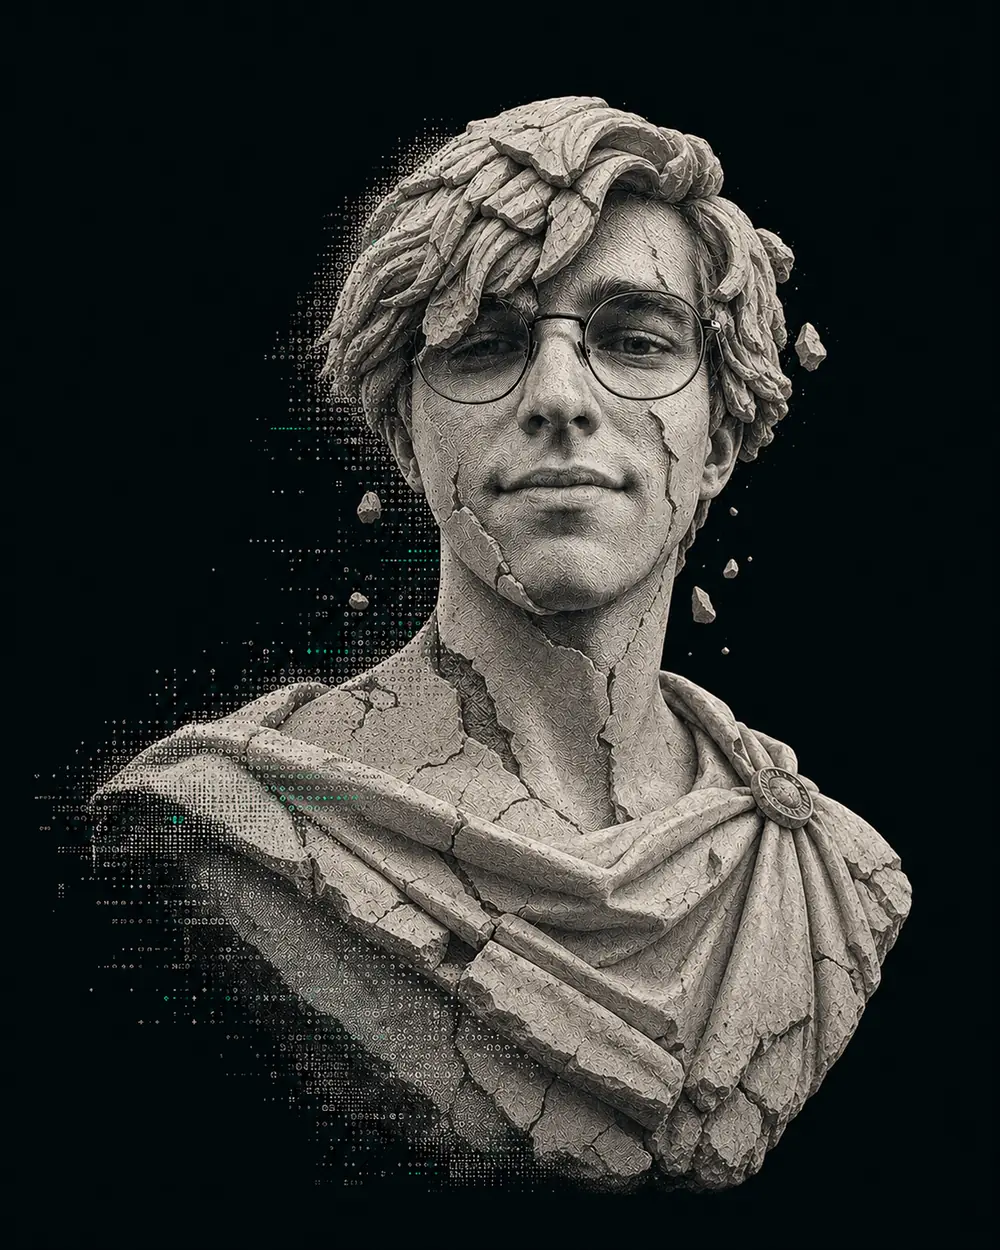
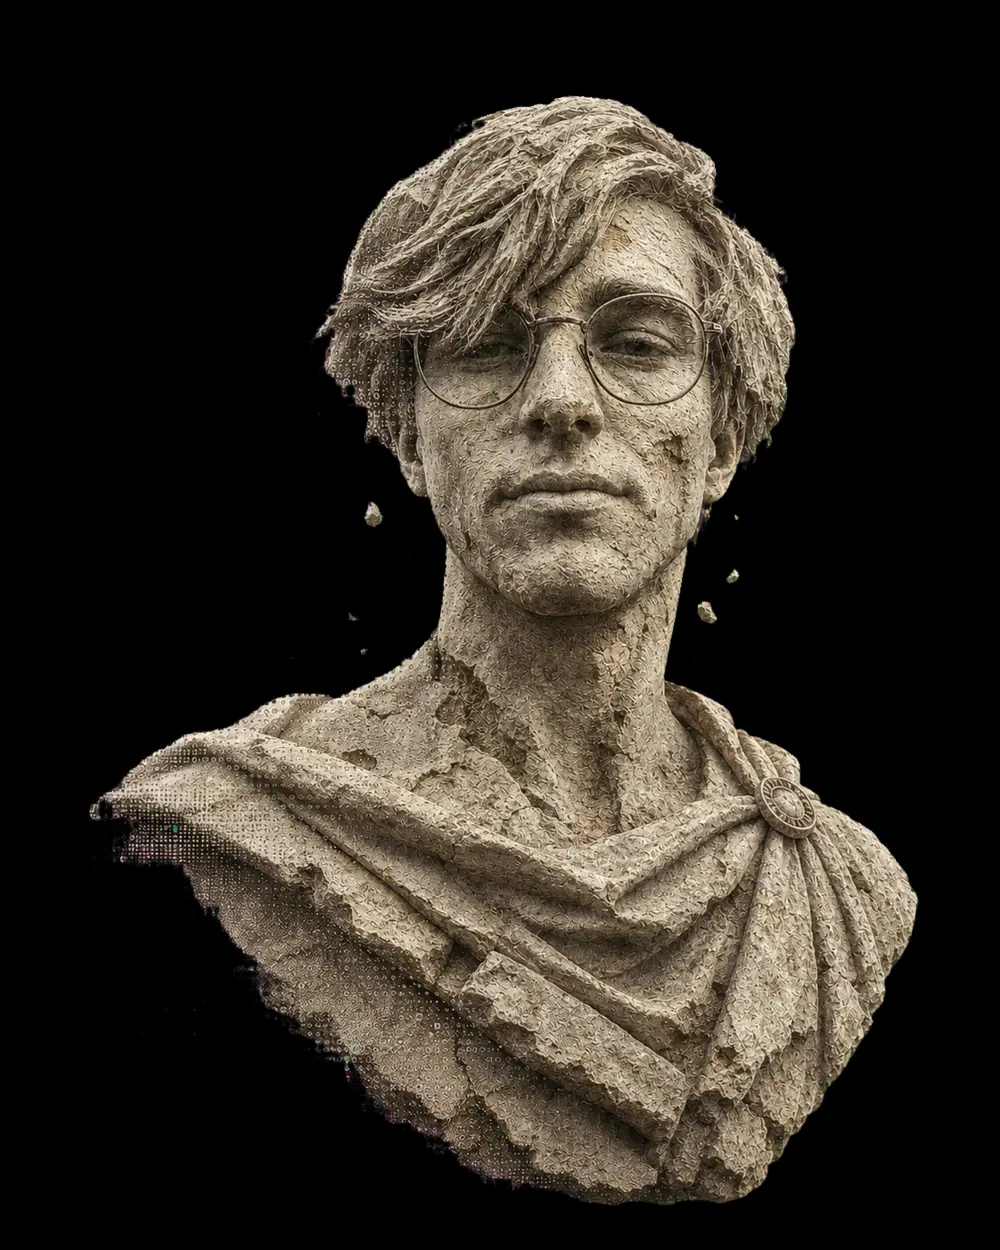
Canvas-сканер: точная синхронизация и четыре портрета

diff --git a/app/components/HeroScanner.tsx b/app/components/HeroScanner.tsx
@@ -1,0 +1,158 @@
+"use client";
+
+import { useEffect, useRef } from "react";
+
+type HeroScannerProps = {
+  basePath: string;
+};
+
+const PHASE_DURATION = 2600;
+
+export function HeroScanner({ basePath }: HeroScannerProps) {
+  const squareRef = useRef<HTMLDivElement>(null);
+  const canvasRef = useRef<HTMLCanvasElement>(null);
+  const lineRef = useRef<HTMLDivElement>(null);
+
+  useEffect(() => {
+    const square = squareRef.current;
+    const canvas = canvasRef.current;
+    const line = lineRef.current;
+    const heroArt = square?.parentElement;
+    if (!square || !canvas || !line || !heroArt) return;
+
+    const urls = [
+      `${basePath}/ithaka-hero.webp`,
+      `${basePath}/ithaka-hero-xray.webp`,
+      `${basePath}/ithaka-hero-statue.webp`,
+      `${basePath}/ithaka-hero-digital.webp`,
+    ];
+    const images = urls.map((url) => {
+      const image = new Image();
+      image.decoding = "async";
+      image.src = url;
+      return image;
+    });
+
+    let frameId = 0;
+    let startTime = 0;
+    let width = 0;
+    let height = 0;
+    let sourceX = 0;
+    let sourceY = 0;
+    let sourceWidth = 0;
+    let sourceHeight = 0;
+
+    const updateGeometry = () => {
+      const squareRect = square.getBoundingClientRect();
+      const artRect = heroArt.getBoundingClientRect();
+      const source = images[0];
+      if (!source.naturalWidth || !source.naturalHeight) return;
+
+      width = squareRect.width;
+      height = squareRect.height;
+      const pixelRatio = Math.min(window.devicePixelRatio || 1, 2);
+      canvas.width = Math.max(1, Math.round(width * pixelRatio));
+      canvas.height = Math.max(1, Math.round(height * pixelRatio));
+      canvas.style.width = `${width}px`;
+      canvas.style.height = `${height}px`;
+
+      const imageScale = Math.min(
+        artRect.width / source.naturalWidth,
+        artRect.height / source.naturalHeight,
+      );
+      const renderedWidth = source.naturalWidth * imageScale;
+      const renderedHeight = source.naturalHeight * imageScale;
+      const imageLeft = (artRect.width - renderedWidth) / 2;
+      const imageTop = artRect.height - renderedHeight;
+
+      sourceX = (squareRect.left - artRect.left - imageLeft) / imageScale;
+      sourceY = (squareRect.top - artRect.top - imageTop) / imageScale;
+      sourceWidth = width / imageScale;
+      sourceHeight = height / imageScale;
+    };
+
+    const drawCrop = (context: CanvasRenderingContext2D, image: HTMLImageElement) => {
+      context.drawImage(
+        image,
+        sourceX,
+        sourceY,
+        sourceWidth,
+        sourceHeight,
+        0,
+        0,
+        width,
+        height,
+      );
+    };
+
+    const animate = (time: number) => {
+      if (!startTime) startTime = time;
+      const cycleDuration = PHASE_DURATION * images.length;
+      const cycleTime = (time - startTime) % cycleDuration;
+      const phase = Math.floor(cycleTime / PHASE_DURATION);
+      const progress = (cycleTime % PHASE_DURATION) / PHASE_DURATION;
+      const downward = phase % 2 === 0;
+      const lineY = downward ? progress * height : (1 - progress) * height;
+      const context = canvas.getContext("2d");
+
+      if (context && width && height) {
+        const pixelRatio = canvas.width / width;
+        context.setTransform(pixelRatio, 0, 0, pixelRatio, 0, 0);
+        context.clearRect(0, 0, width, height);
+        drawCrop(context, images[phase]);
+
+        context.save();
+        if (downward) {
+          context.beginPath();
+          context.rect(0, 0, width, lineY);
+        } else {
+          context.beginPath();
+          context.rect(0, lineY, width, height - lineY);
+        }
+        context.clip();
+        drawCrop(context, images[(phase + 1) % images.length]);
+        context.restore();
+      }
+
+      line.style.transform = `translate3d(0, ${lineY}px, 0) translateY(-50%)`;
+      frameId = requestAnimationFrame(animate);
+    };
+
+    const ready = Promise.all(
+      images.map((image) =>
+        image.complete && image.naturalWidth
+          ? Promise.resolve()
+          : new Promise<void>((resolve) => {
+              image.addEventListener("load", () => resolve(), { once: true });
+              image.addEventListener("error", () => resolve(), { once: true });
+            }),
+      ),
+    );
+    const resizeObserver = new ResizeObserver(updateGeometry);
+    resizeObserver.observe(heroArt);
+
+    ready.then(() => {
+      updateGeometry();
+      frameId = requestAnimationFrame(animate);
+    });
+
+    return () => {
+      cancelAnimationFrame(frameId);
+      resizeObserver.disconnect();
+    };
+  }, [basePath]);
+
+  return (
+    <div className="scan-square" ref={squareRef}>
+      <canvas className="scan-canvas" ref={canvasRef} />
+      <div className="scan-tint" />
+      <div className="scan-line" ref={lineRef} />
+      <div className="scan-crosshair">+</div>
+      <div className="scan-meta">
+        <span>SCULPT.EXE</span>
+        <span>RENDER PASS_09</span>
+        <span>STATUS: SYNC</span>
+      </div>
+    </div>
+  );
+}

diff --git a/app/globals.css b/app/globals.css
@@ -209,17 +209,6 @@ button, a { -webkit-tap-highlight-color: transparent; }
   -webkit-user-drag: none;
   user-select: none;
 }
-.hero-art .hero-variant {
-  position: absolute;
-  inset: 0;
-  z-index: 3;
-  pointer-events: none;
-}
-.hero-variant-xray {
-  background: #000;
-  animation: squareXray 12s linear infinite;
-}
-.hero-variant-statue { animation: squareStatue 12s linear infinite; }
 .hero-chevron {
   position: absolute;
   z-index: 1;
@@ -237,24 +226,34 @@ button, a { -webkit-tap-highlight-color: transparent; }
   width: var(--scan-size);
   aspect-ratio: 1;
   border: 1px solid var(--mint);
-  background: rgba(1, 222, 130, .72);
+  background: #000;
   left: var(--scan-left); top: var(--scan-top);
   color: var(--ink);
-  padding: 12px;
   font: 8px/1.45 var(--font-geist-mono), monospace;
-  display: flex; flex-direction: column;
-  justify-content: flex-end;
   box-shadow: 0 0 50px rgba(1,222,130,.12);
   overflow: hidden;
 }
-.scan-square::before {
-  content: ""; position: absolute; left: 0; right: 0; height: 2px;
-  top: 0; transform: translateY(-50%);
+.scan-canvas { position: absolute; inset: 0; z-index: 0; display: block; }
+.scan-tint { position: absolute; inset: 0; z-index: 1; background: rgba(1, 222, 130, .58); pointer-events: none; }
+.scan-line {
+  position: absolute; z-index: 3; left: 0; right: 0; top: 0; height: 2px;
   background: rgba(255,255,255,.95);
   box-shadow: 0 0 15px white;
-  animation: scanLine 12s linear infinite;
+  pointer-events: none;
+  will-change: transform;
 }
-.crosshair { position: absolute; left: 54%; top: 31%; z-index: 5; font: 24px var(--font-geist-mono); }
+.scan-crosshair {
+  position: absolute; z-index: 4; inset: 0;
+  display: grid; place-items: center;
+  color: var(--paper);
+  font: 24px var(--font-geist-mono), monospace;
+  pointer-events: none;
+}
+.scan-meta {
+  position: absolute; z-index: 4; left: 12px; bottom: 12px;
+  display: flex; flex-direction: column;
+  pointer-events: none;
+}
 .hero-side {
   position: absolute;
   z-index: 5;
@@ -434,64 +433,6 @@ footer p:last-child { justify-self: end; }
 @keyframes pulse { 0%,100%{opacity:1} 50%{opacity:.35} }
 @keyframes rise { from{opacity:0;transform:translateY(25px) scaleX(.84)} to{opacity:1;transform:translateY(0) scaleX(.84)} }
 @keyframes slideIn { from{opacity:0;transform:translateX(28px)} to{opacity:1;transform:none} }
-@keyframes scanLine {
-  0% { top: 0; }
-  33.333% { top: 100%; }
-  66.666% { top: 0; }
-  100% { top: 100%; }
-}
-@keyframes squareXray {
-  0% {
-    clip-path: inset(
-      var(--scan-top)
-      calc(100% - var(--scan-left) - var(--scan-size))
-      calc(100% - var(--scan-top))
-      var(--scan-left)
-    );
-  }
-  33.333%, 66.666% {
-    clip-path: inset(
-      var(--scan-top)
-      calc(100% - var(--scan-left) - var(--scan-size))
-      calc(100% - var(--scan-top) - var(--scan-size))
-      var(--scan-left)
-    );
-  }
-  100% {
-    clip-path: inset(
-      calc(var(--scan-top) + var(--scan-size))
-      calc(100% - var(--scan-left) - var(--scan-size))
-      calc(100% - var(--scan-top) - var(--scan-size))
-      var(--scan-left)
-    );
-  }
-}
-@keyframes squareStatue {
-  0%, 33.333% {
-    clip-path: inset(
-      calc(var(--scan-top) + var(--scan-size))
-      calc(100% - var(--scan-left) - var(--scan-size))
-      calc(100% - var(--scan-top) - var(--scan-size))
-      var(--scan-left)
-    );
-  }
-  66.666% {
-    clip-path: inset(
-      var(--scan-top)
-      calc(100% - var(--scan-left) - var(--scan-size))
-      calc(100% - var(--scan-top) - var(--scan-size))
-      var(--scan-left)
-    );
-  }
-  100% {
-    clip-path: inset(
-      calc(var(--scan-top) + var(--scan-size))
-      calc(100% - var(--scan-left) - var(--scan-size))
-      calc(100% - var(--scan-top) - var(--scan-size))
-      var(--scan-left)
-    );
-  }
-}
 @keyframes ticker { to{transform:translateX(-50%)} }
 @keyframes noteGlow { 0% { color: var(--muted); } 16.66% { color: var(--mint); } 33.33%, 100% { color: var(--muted); } }
 

diff --git a/app/page.tsx b/app/page.tsx
@@ -7,6 +7,7 @@ import { LanguageToggle } from "./components/LanguageToggle";
 import { Deck } from "./components/Deck";
 import { ChaosSystem } from "./components/ChaosSystem";
 import { GlitchText } from "./components/GlitchText";
+import { HeroScanner } from "./components/HeroScanner";
 
 const projectsMeta = [
   {
@@ -113,14 +114,7 @@ export default function Home() {
                 draggable={false}
                 onContextMenu={(e) => e.preventDefault()}
               />
-              <img className="hero-variant hero-variant-xray" src={`${basePath}/ithaka-hero-xray.webp`} alt="" draggable={false} />
-              <img className="hero-variant hero-variant-statue" src={`${basePath}/ithaka-hero-statue.webp`} alt="" draggable={false} />
-              <div className="scan-square">
-                <span>SCULPT.EXE</span>
-                <span>RENDER PASS_07</span>
-                <span>STATUS: OK</span>
-              </div>
-              <div className="crosshair">+</div>
+              <HeroScanner basePath={basePath} />
             </div>
 
             <div className="hero-side" aria-hidden="true">